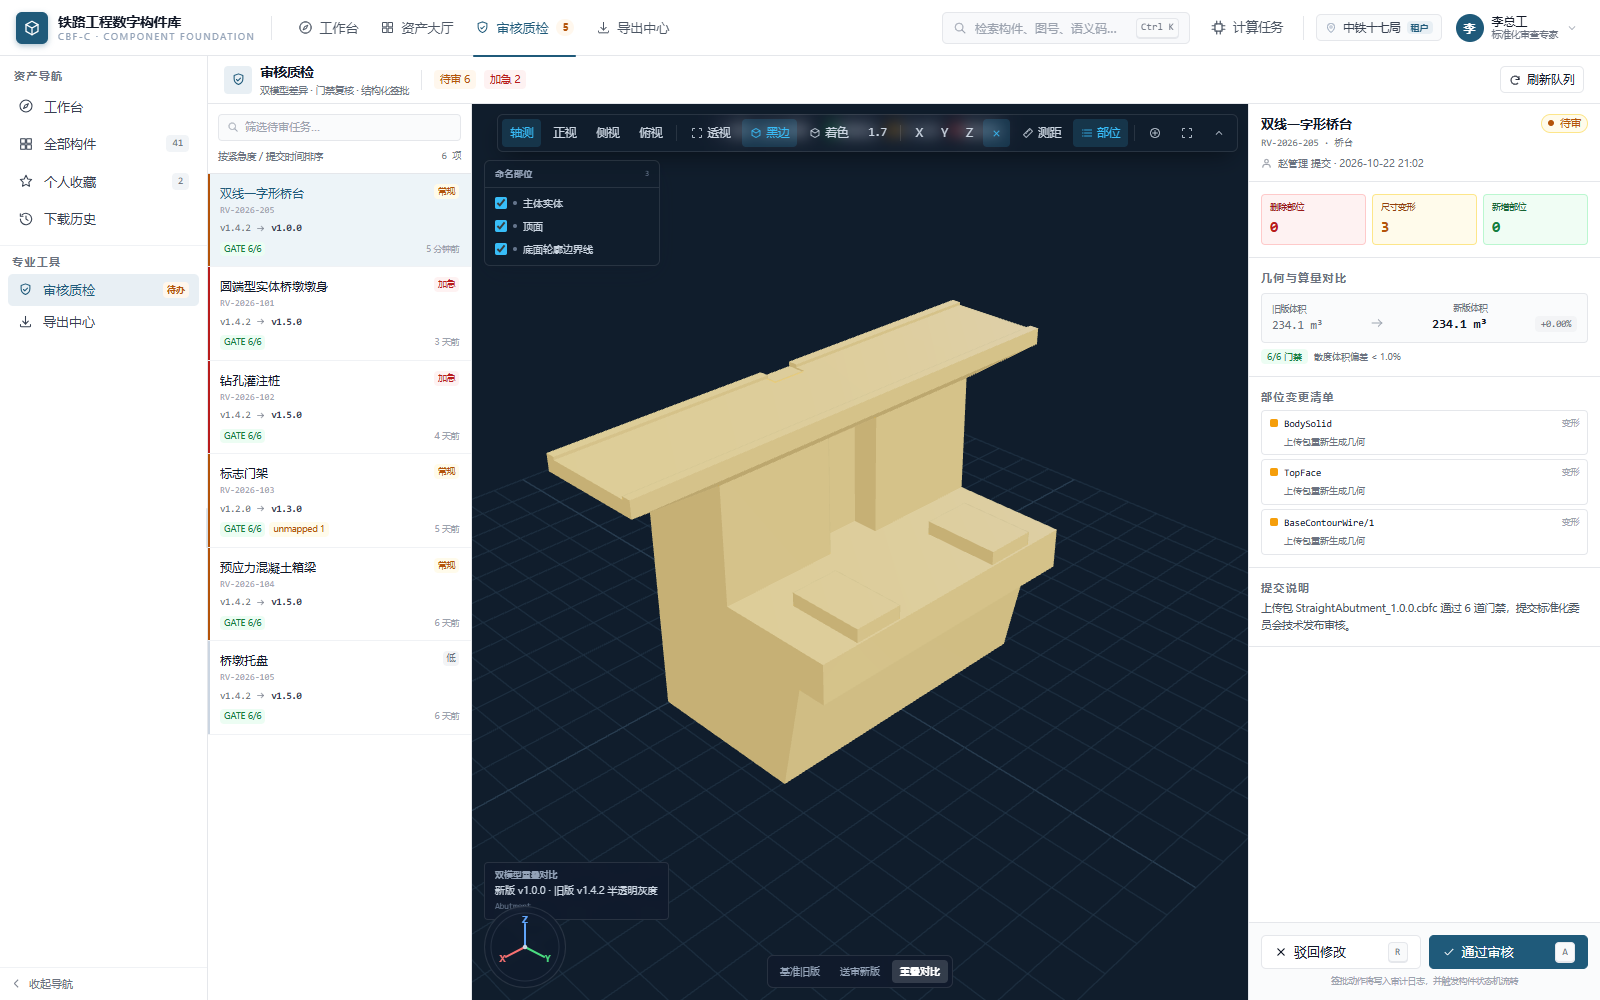
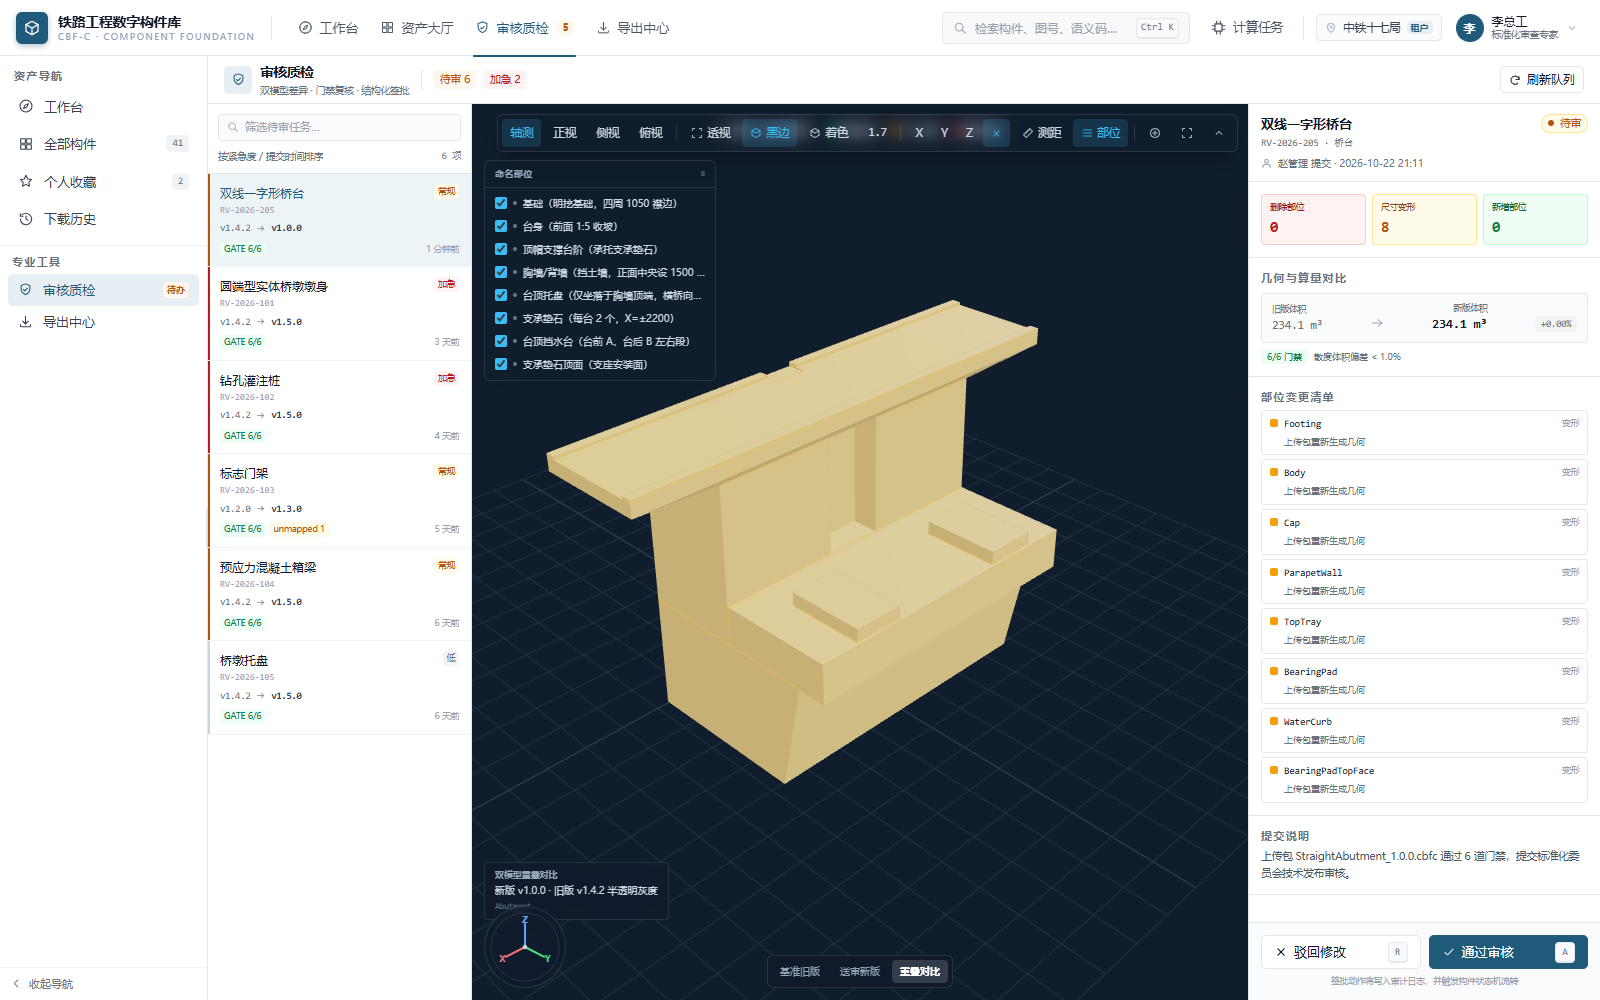
fix(cbfc-web): use real abutment named parts in review

diff --git a/cbfc-web/server/seed.ts b/cbfc-web/server/seed.ts
@@ -70,6 +70,8 @@ interface ComponentSeed {
   modeledBy?: string;
   /** 附加非映射形状，用于演示 unmapped 预警 */
   extraShapes?: Record<string, ShapeDef>;
+  /** 覆盖默认形状定义（导入构件使用真实命名部位） */
+  shapes?: Record<string, ShapeDef>;
   /** 原始 CadQuery 参数化脚本路径（来源追溯，不参与 cacheKey） */
   cqSource?: string;
   /** 构件库2 导入网格（相对 server/imports/cbfc2） */
@@ -540,6 +542,16 @@ const SEEDS: ComponentSeed[] = [
     description: '双线一字形桥台，含台顶、台身、胸墙及支承垫石等命名部位。',
     presets: [{ modelNumber: 'A4332-H8.0-D0.0', label: 'A4332 标准桥台', overrides: {} }],
     meshFile: 'StraightAbutment.mesh.json',
+    shapes: {
+      Footing: { label: '基础（明挖基础，四周 1050 襟边）', code: 'Bridge.Abutment.Footing', geomType: 'solid' },
+      Body: { label: '台身（前面 1:5 收坡）', code: 'Bridge.Abutment.Body', geomType: 'solid' },
+      Cap: { label: '顶帽支撑台阶（承托支承垫石）', code: 'Bridge.Abutment.Cap', geomType: 'solid' },
+      ParapetWall: { label: '胸墙/背墙（挡土墙，正面中央设 1500 检查口凹槽）', code: 'Bridge.Abutment.ParaperWall', geomType: 'solid' },
+      TopTray: { label: '台顶托盘（仅坐落于胸墙顶端，横桥向悬挑至 12600）', code: 'Bridge.Abutment.TopTray', geomType: 'solid' },
+      BearingPad: { label: '支承垫石（每台 2 个，X=±2200）', code: 'Bridge.Abutment.BearingPad', geomType: 'solid' },
+      WaterCurb: { label: '台顶挡水台（台前 A、台后 B 左右段）', code: 'Bridge.Abutment.WaterCurb', geomType: 'solid' },
+      BearingPadTopFace: { label: '支承垫石顶面（支座安装面）', code: 'Bridge.Abutment.BearingPadTopFace', geomType: 'face' },
+    },
     publishedAt: '2026-05-21',
     updatedAt: '2026-09-20',
     modeledBy: '李工',
@@ -1358,7 +1370,7 @@ export async function createComponents(): Promise<InternalComponent[]> {
           ));
 
     const shapes: Record<string, ShapeDef> = {
-      ...shapesFor(seed.kind, seed.semanticCode),
+      ...(seed.shapes ?? shapesFor(seed.kind, seed.semanticCode)),
       ...(seed.extraShapes ?? {}),
     };
     const shapeKeys = Object.keys(shapes);

diff --git a/cbfc-web/src/components/viewer/CadViewport.vue b/cbfc-web/src/components/viewer/CadViewport.vue
@@ -505,7 +505,7 @@ defineExpose({
     <!-- 命名部位列表 -->
     <div
       v-if="showNamedParts && namedParts.length"
-      class="absolute left-3 top-14 z-20 max-h-[min(280px,calc(100%-72px))] w-[176px] overflow-hidden rounded-md border border-white/10 bg-[#0F1A2B]/92 shadow-lift backdrop-blur"
+      class="absolute left-3 top-14 z-20 max-h-[min(300px,calc(100%-72px))] w-[232px] overflow-hidden rounded-md border border-white/10 bg-[#0F1A2B]/92 shadow-lift backdrop-blur"
     >
       <div class="flex items-center justify-between border-b border-white/10 px-2.5 py-1.5">
         <p class="text-[9px] font-semibold uppercase tracking-wider text-[#94A3B8]">命名部位</p>
